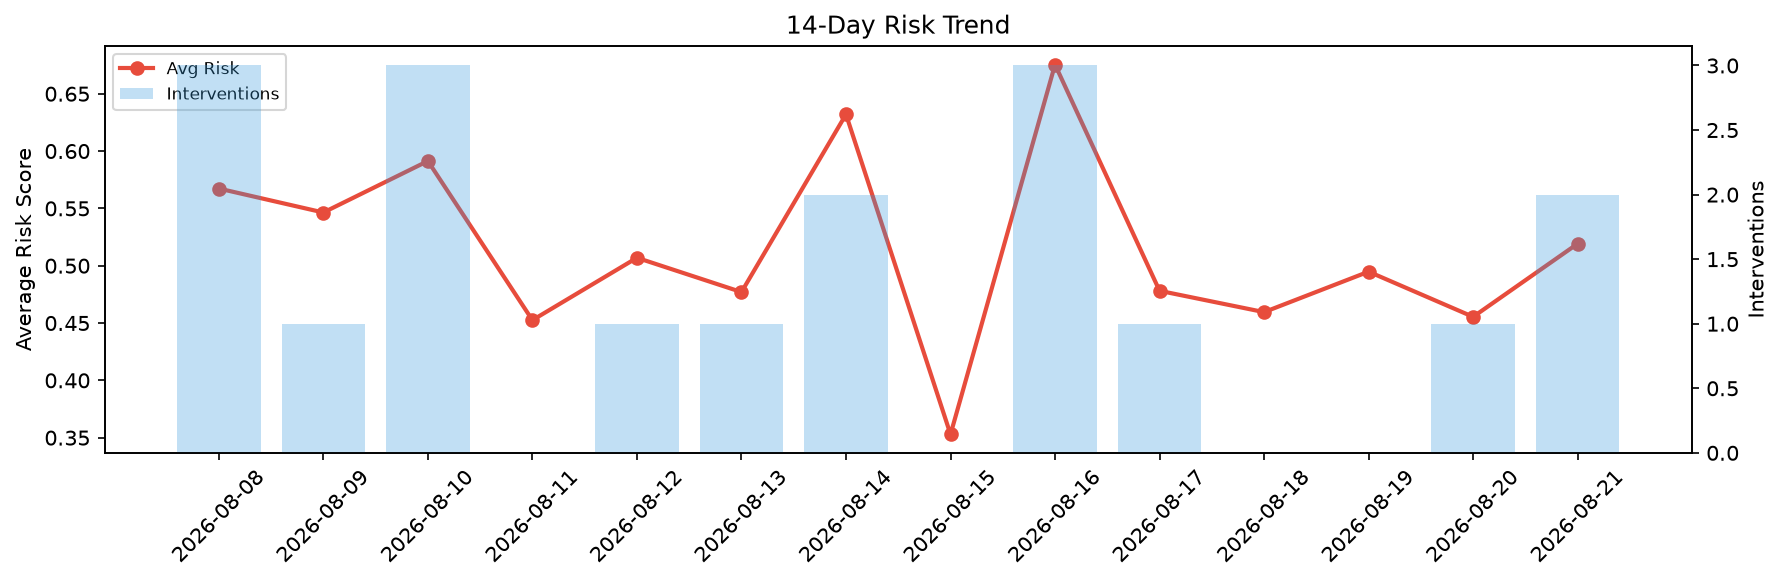
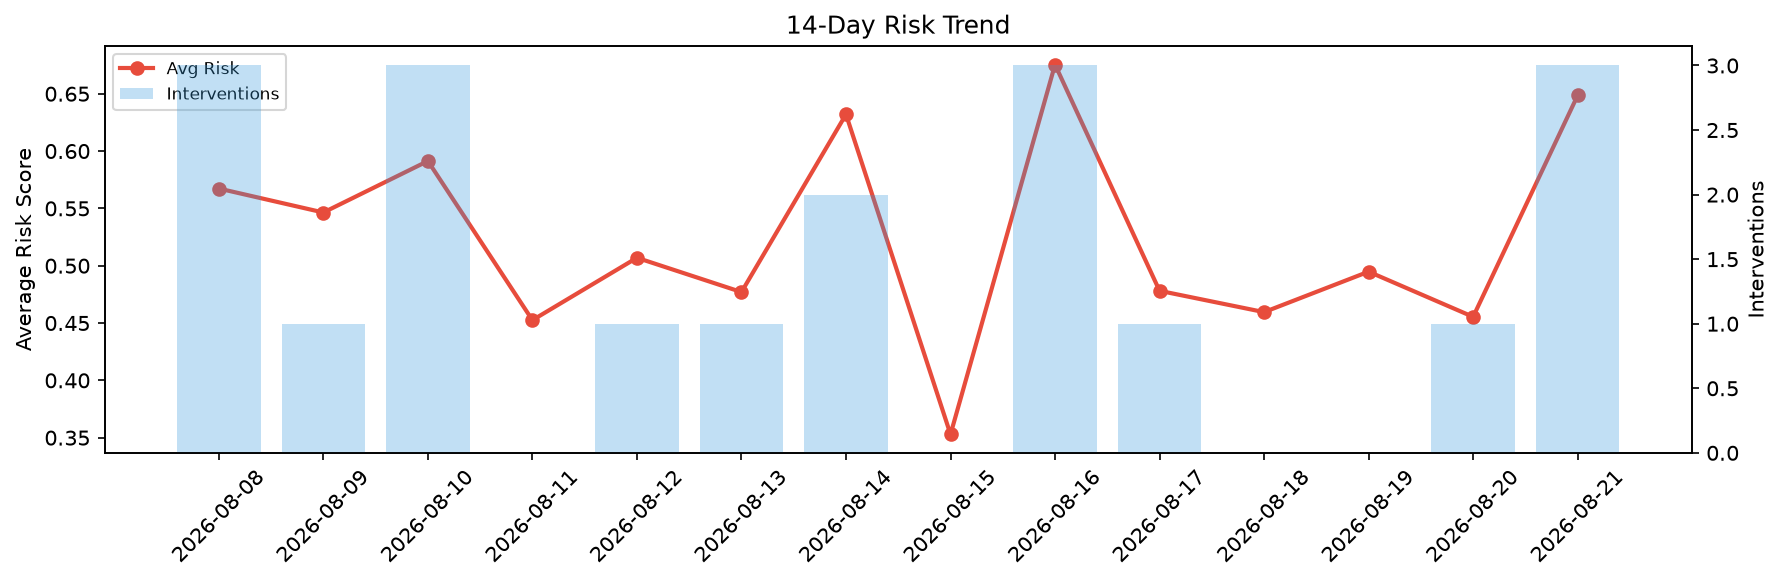
agent-improvement: daily cycle 2026-08-21T20:38

Changed region(s): [[0.8329, 0.0928, 0.9254, 0.3402], [0.8329, 0.4021, 0.8946, 0.5258]]

diff --git a/logs/2026-08-21.md b/logs/2026-08-21.md
@@ -1,6 +1,6 @@
 # Agent Improvement Report — 2026-08-21
 
-**Cycle ID:** `f6cda9f7` | **Avg Risk:** 0.5192 | **Interventions:** 2/4
+**Cycle ID:** `5e34b257` | **Avg Risk:** 0.6485 | **Interventions:** 3/4
 
 ![Dashboard](2026-08-21_dashboard.png)
 
@@ -10,18 +10,18 @@
 
 | Domain | Risk Score | Decision | Alerts |
 |--------|-----------|----------|--------|
-| code_review | 0.5644 | monitor | none |
-| incident_response | 0.658 | intervene | severity, blast_radius |
-| data_pipeline | 0.1754 | monitor | none |
-| deployment | 0.6788 | intervene | rollback_rate |
+| code_review | 0.3778 | monitor | duplication |
+| incident_response | 0.6189 | intervene | mttr |
+| data_pipeline | 0.8405 | intervene | freshness, schema_drift, volume_anomaly |
+| deployment | 0.7566 | intervene | canary_error, latency_p99 |
 
 ## Delta vs Yesterday
 
 | Domain | Today | Yesterday | Change |
 |--------|-------|-----------|--------|
-| code_review | 0.5644 | 0.4187 | 📈 34.8% |
-| incident_response | 0.658 | 0.6472 | 📈 1.7% |
-| data_pipeline | 0.1754 | 0.5349 | 📉 -67.2% |
-| deployment | 0.6788 | 0.2208 | 📈 207.4% |
+| code_review | 0.3778 | 0.4187 | 📉 -9.8% |
+| incident_response | 0.6189 | 0.6472 | 📉 -4.4% |
+| data_pipeline | 0.8405 | 0.5349 | 📈 57.1% |
+| deployment | 0.7566 | 0.2208 | 📈 242.7% |
 
 **Refinement:** `{'adjustment': 'tighten_thresholds', 'trend': 'degrading', 'window': 4}`
